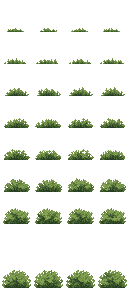
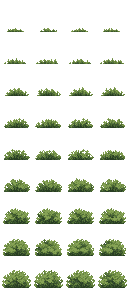
Куртина ширится и смыкается с соседями, центр больше не просвечивает
Три правки по замечаниям пользователя.

ЦЕНТР ПРОСВЕЧИВАЛ у кочек младше седьмой ступени. Причина не в теле, а в
разметке: тело брало рисунок с высоты 45-85% клетки, а молодая куртинка
нарисована только у нижнего края — выше прозрачный фон, и движок, который
режет по порогу, выбивал макушку тела дырой. К седьмой ступени рисунок
дорастал, и дыра закрывалась сама. Угадывать высоту нельзя: лист рисует
пользователь. Теперь сплошной прямоугольник каждой клетки ИЩЕТСЯ ПО САМОЙ
КАРТИНКЕ при запуске — от корней вверх, пока в строке есть сплошной кусок не
уже трети ширины, с пересечением этих кусков. Пересечение сплошных отрезков
сплошное по построению, поэтому дыр не будет ни при какой рисовке.

КУРТИНА ШИРИТСЯ с возрастом по своему правилу, круче ворсинки: радиус от 0.65
до 1.45 «М». Ближе 0.27 м кочкам садиться нельзя, и к старости радиус этот
зазор перекрывает — взрослые СМЫКАЮТСЯ В СПЛОШНОЙ МАССИВ, молодые остаются
отдельными бугорками. Ворсинка держится прежнего правила «М ±5% за ступень»:
у живого мха подушка ширится числом побегов, а не толщиной каждого.

Самопроверка теперь мерит и разметку тела: просвечивающих точек — 0, самая
тесная клетка — 17 точек. Второе число не норма, а предупреждение: у младших
возрастов сплошного рисунка мало, и тело там выйдет почти одноцветным.

Расширение стоило 8.0 -> 9.8 с счёта на 45 секунд роста: обод ищется дальше от
середины. Ворс оставлен по четырнадцать штук — на кочку это те же 57
[…]

diff --git a/README.md b/README.md
@@ -96,9 +96,22 @@
 кочку — ровно столько же, сколько стоил прежний пучок плоских картинок, у
 которого объём был мнимый и рассыпался, стоило посмотреть вдоль дощечек.
 
-Взрослеет мох **не размером, а густотой**: размер пятой ступени принят за «М»,
-каждая ступень в сторону меняет его на 5% — от 80% до 120%. Растёт вместо этого
-число ворсинок, и меняется сама картинка возраста. Время ступени — «Т», около
+Картинку телу даём **не из клетки листа целиком, а из её сплошной части**, и эта
+часть ищется по самой картинке при запуске (`_scan_solid`). Иначе у кочек младше
+седьмой ступени просвечивал центр: молодая куртинка нарисована только у нижнего
+края клетки, выше прозрачный фон, а движок режет по порогу — макушка тела
+попадала в пустоту. Угадать наперёд нельзя, лист рисует пользователь; поэтому не
+угадываем, а смотрим: идём от корней вверх, пока в строке есть сплошной кусок, и
+пересекаем эти куски. Пересечение сплошных отрезков сплошное по построению.
+
+**Куртина ширится с возрастом** по своему правилу, куда круче ворсинки: радиус
+идёт от 0.65 до 1.45 «М», то есть больше чем вдвое. Садиться ближе 0.27 м друг к
+другу кочкам нельзя, и к старости радиус этот зазор перекрывает — взрослые
+куртины смыкаются в сплошной массив, а молодые стоят отдельными бугорками.
+
+Ворсинка при этом держится правила «М ±5% за ступень» (от 80% до 120%): у живого
+мха подушка ширится числом побегов, а не тем, что каждый побег толстеет. Растёт
+вместо размера число ворсинок, и меняется сама картинка возраста. Время ступени — «Т», около
 трёх секунд; первые пять идут ровно по Т, дальше 2Т, 3Т, 4Т и 5Т. Долгая
 зрелость и есть пора размножения: отростки идут с третьей ступени, и чем дольше
 кочка стоит взрослой, тем дальше успевает расползтись.
